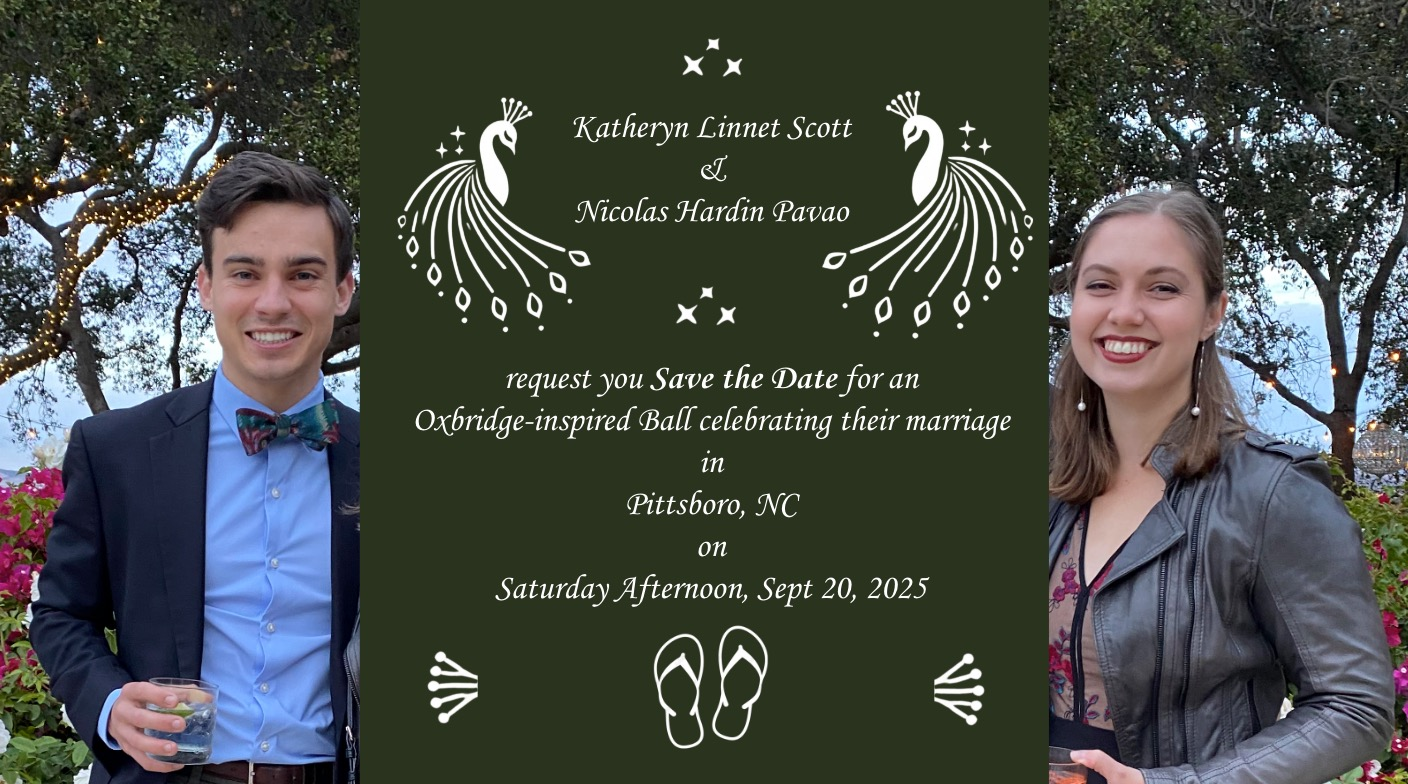
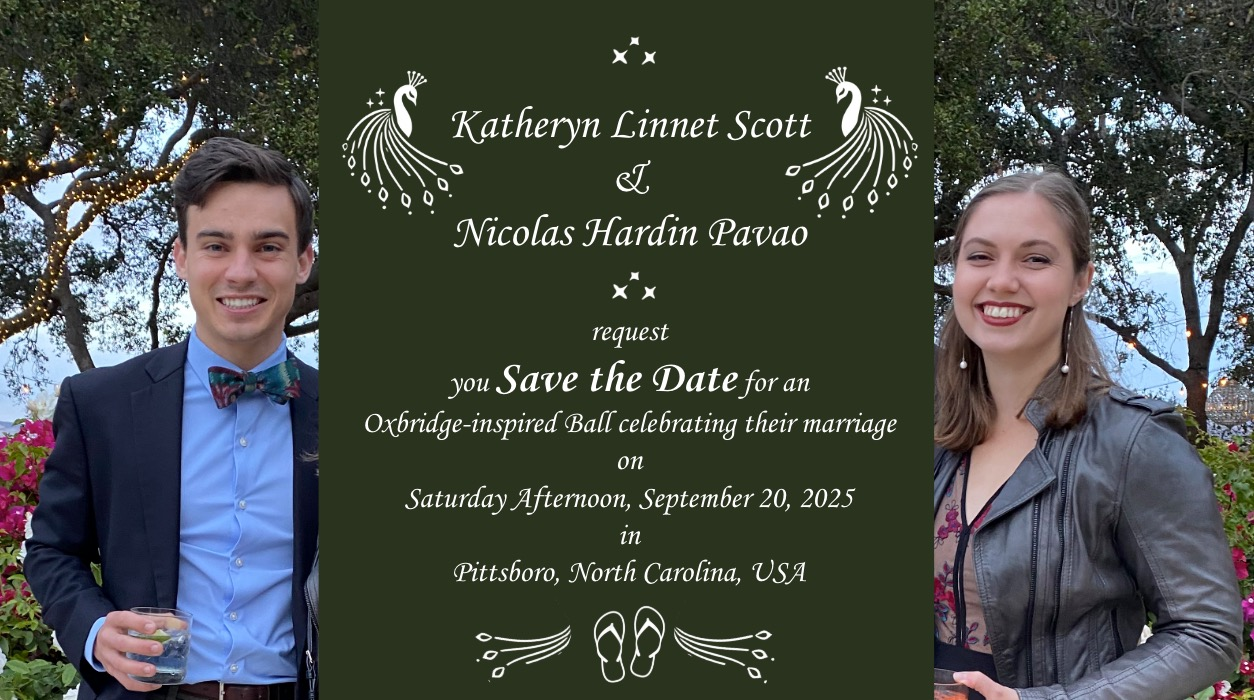
slight adjustment to cover photo

diff --git a/index.html b/index.html
@@ -17,7 +17,7 @@
         <a href="./pages/registry.html">Registry</a>
     </div>
     <div class="content large">
-        <img class="nic" src="./images/wedding_cover.jpeg" alt="Nic"> 
+        <img class="nic" src="./images/wedding_photo.jpeg" alt="Nic & Kate Cover Photo"> 
     </div>
     <div class="content">
         <h2>Please share your address <a href = "https://docs.google.com/forms/d/e/1FAIpQLSeJmunDXp1SGyHkTaZf9296UcBBCNetlU5EZg6jRwnx4VuXSQ/viewform" style = "color: white">HERE</a> to receive formal invitation.</h2>
